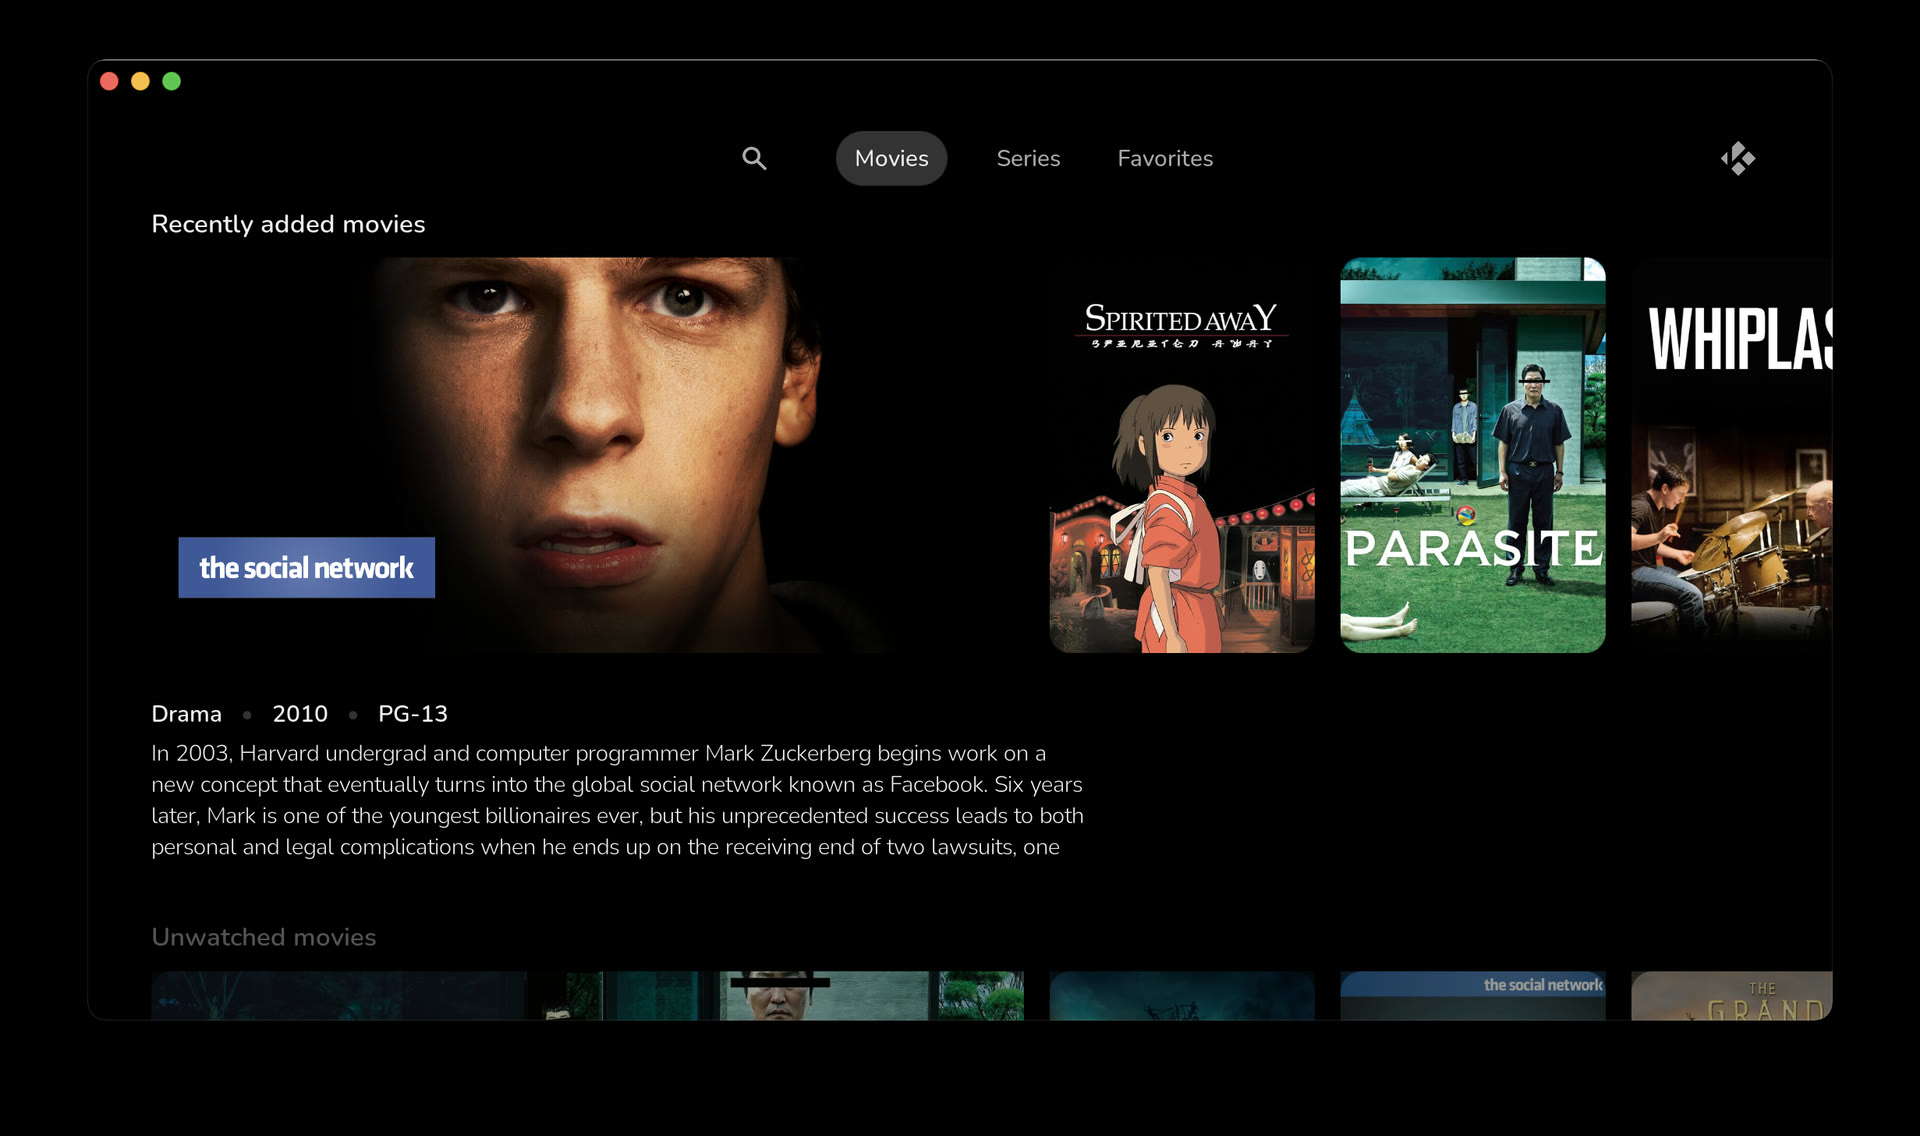
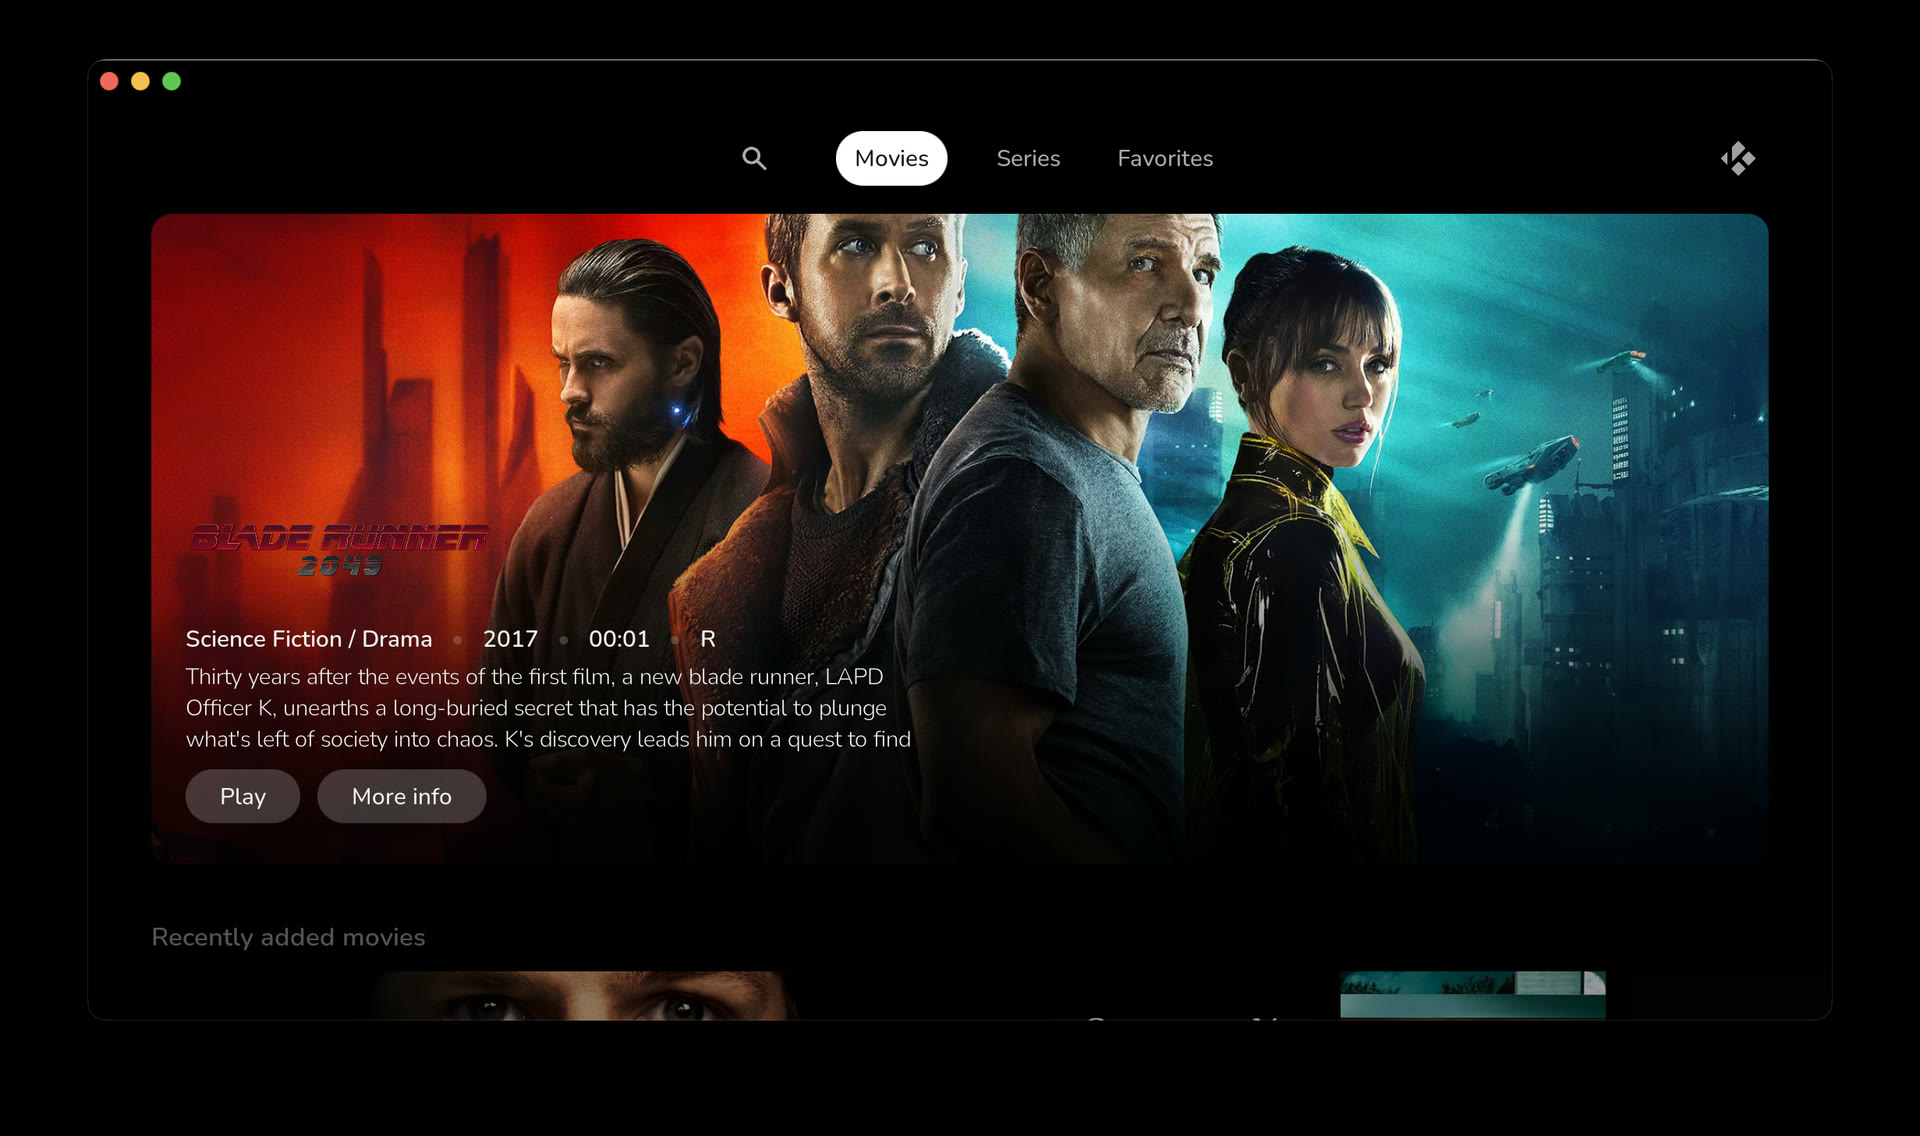
chore: add skin settings to readme

diff --git a/README.md b/README.md
@@ -1,18 +1,60 @@
 # Ilbi
 
-A minimalist, streaming-service-style skin for [Kodi](https://kodi.tv), forked from Estuary.
+WIP minimalist, streaming-service-style skin for [Kodi](https://kodi.tv), forked from Estuary.
 
 Scope is deliberately narrow: **movies and TV shows only**.
 
 ## Screenshots
 
-Home screen with the centred nav bar and hero spotlight:
-
-![Home screen](resources/menu.jpg)
-
-Poster rows, with the focused item spotlighted above the row:
-
 ![Spotlight](resources/spotlight.jpg)
+
+![Movie rows](resources/movies.jpg)
+
+## Skin settings
+
+Reachable from Kodi Options (the logo in the top right) → Settings → Interface → Skin →
+Configure skin. Four categories:
+
+**General**
+
+| Setting | Default | |
+| --- | --- | --- |
+| Use slide animations | on | Slide transitions between windows and views |
+| Enable auto scrolling for plot & review | off | Auto-scrolls long plot text |
+| Touch mode | off | Larger touch targets |
+| Show media flags | on | Resolution / codec / audio badges on media items |
+| Choose rating to display for media items | — | User rating, rating, or none |
+| Choose kind of profile identification | — | Profile name, avatar, or none |
+
+**Main menu items**
+
+| Setting | Default | |
+| --- | --- | --- |
+| Enable category widgets | on | Genre / year category rows on the home screen |
+| Movies | on | Show the Movies menu item |
+| — Random movie spotlight | off | Hero spotlight above the movie rows |
+| — Edit categories | — | Opens the library node editor add-on |
+| — Default select action for movie sets | — | Browse, continue watching, play from beginning, play next, or queue |
+| TV shows | on | Show the Series menu item |
+| — Random series spotlight | off | Hero spotlight above the series rows |
+| — Edit categories | — | Opens the library node editor add-on |
+| — Default select action for TV shows | — | Same options as movie sets |
+| Favourites | on | Show the Favorites menu item |
+
+**Artwork**
+
+| Setting | Default | |
+| --- | --- | --- |
+| Show media fanart as background | on | Uses item fanart behind the UI |
+| Choose skin fanart pack | — | Needs the `script.image.resource.select` add-on |
+| Select genre fanart pack | — | Needs the same add-on |
+
+**On screen display**
+
+| Setting | Default | |
+| --- | --- | --- |
+| Automatically close video OSD | off | |
+| — Video OSD autoclose time (seconds) | — | Only editable when autoclose is on |
 
 ## Development
 
